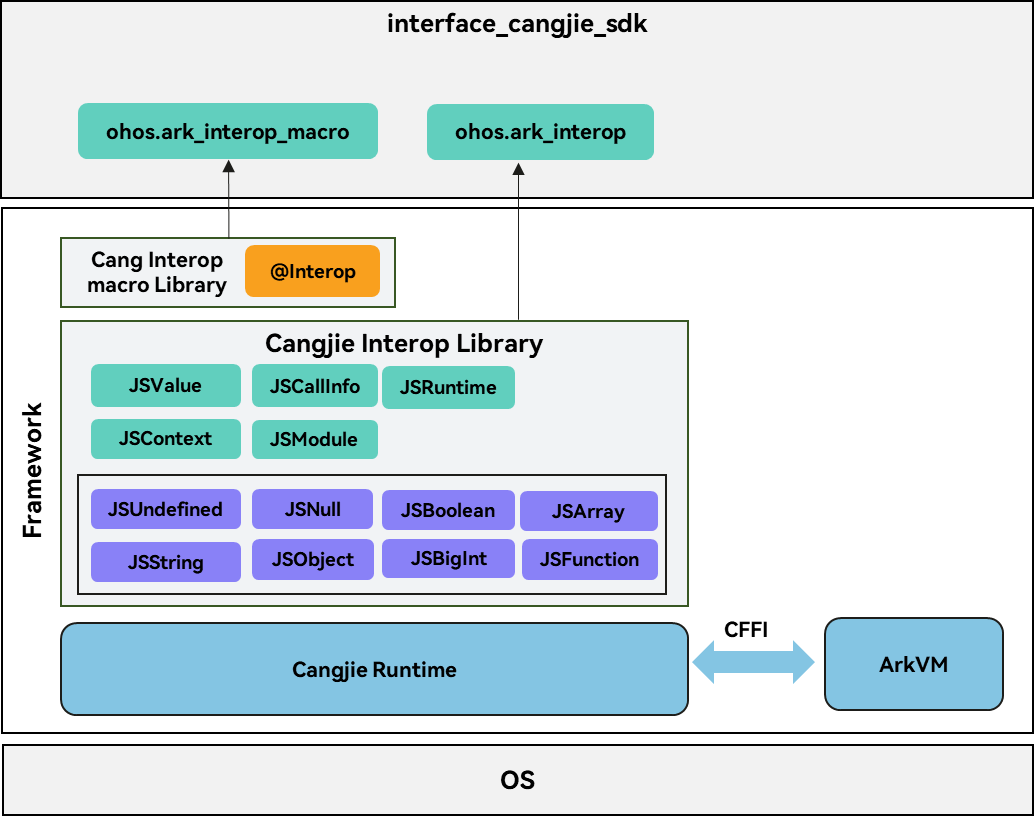
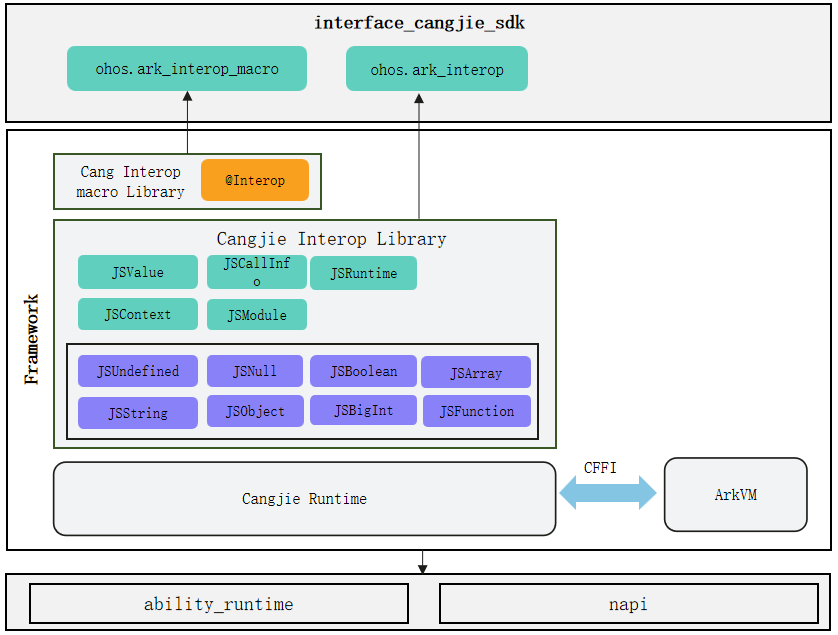
fixed doc

diff --git a/README_zh.md b/README_zh.md
@@ -2,7 +2,7 @@
 
 ## 简介
 
-仓颉ArkTS互操作库API，用于提供仓颉与ArkTS跨语言互操作能力，包含仓颉互操作库提供的公共接口、互操作宏接口和依赖的json和CFFI接口，期望给开发者提供兼顾开发效率和运行效率的跨语言互操作解决方案，提供简洁的互操作开发范式，降低跨语言互通开销。
+仓颉ArkTS互操作库API，用于提供仓颉与ArkTS跨语言互操作能力，包含仓颉互操作库提供的公共接口、互操作宏接口和依赖的json和C语言互操作(CFFI)接口，期望给开发者提供兼顾开发效率和运行效率的跨语言互操作解决方案，提供简洁的互操作开发范式，降低跨语言互通开销。
 
 其主要结构如下图所示：
 
@@ -26,23 +26,34 @@
 本库还提供以下的关键数据结构：
 
 - JSValue: 用于表示来自ArkTS中的对象（如数字、字符串、对象、函数），是仓颉与ArkTS类型转换的桥梁。
+- JSModule: JSModule的目标是提供符号导出能力（导出到ArkTS）。配合自定义静态初始化函数，在动态库被加载时把导出目标注册到全局表，并由ArkTS引擎来执行导出。
+- JSRuntime: 仓颉创建的 ArkTS 运行时。
 - JSContext: 用于表示与ArkTS互操作的上下文，提供模块加载、JSValue创建等能力。
 - JSCallInfo: 用于表示当发生来自于ArkTS互操作调用时 调用的参数集合。
 
-最后本互操作库通过CFFI调用ArkTS虚拟机提供的接口完成互操作功能。
+最后本互操作库通过C语言互操作调用ArkTS虚拟机提供的接口完成互操作功能。
 
 ## 目录
 
 ```text
 arkcompiler/cangjie_ark_interop
-├── ohos                 # 仓颉互操作API的公共仓代码
-├── doc                  # 仓颉文档，包括API参考、应用开发指南、仓颉编程语言用户手册
-    ├── API_Reference    # 仓颉API参考
-    └── Dev_Guide        # 仓颉开发指南
-    └── release-notes    # 仓颉发布说明
-    └── User_Manual      # 仓颉用户手册
-├── figures              # 本README需要使用的图片
-├── test                 # 仓颉互操作测试用例
+├── ohos                   # 仓颉互操作API的公共仓代码
+    ├── ark_interop        # 仓颉互操作库
+    └── ark_interop_helper # 仓颉互操作库工具类
+    └── ark_interop_macro  # 仓颉互操作库宏
+    └── business_exception # 仓颉互操作异常
+    └── callback_invoke    # 仓颉互操作回调工具类
+    └── encoding           # 仓颉json库
+    └── ffi                # 仓颉C语言互操作库
+    └── labels             # 仓颉互操作库api level标签
+    └── utf16string        # 仓颉互操作库提供的utf16字符串处理类
+├── doc                    # 仓颉文档，包括API参考、应用开发指南、仓颉编程语言用户手册
+    ├── API_Reference      # 仓颉API参考
+    └── Dev_Guide          # 仓颉开发指南
+    └── release-notes      # 仓颉发布说明
+    └── User_Manual        # 仓颉用户手册
+├── figures                # 本README需要使用的图片
+├── test                   # 仓颉互操作测试用例
 ```
 
 ## 约束
@@ -51,15 +62,80 @@ arkcompiler/cangjie_ark_interop
 
 ## 使用场景
 
-包含仓颉-ArkTS互操作库，用于仓颉-ArkTS互操作。json库/APILevel/CFFI库为基础功能库，提供给仓颉API/仓颉UI等子系统等公共能力。
+包含仓颉-ArkTS互操作库，用于仓颉-ArkTS互操作。json库/APILevel/C语言互操作库为基础功能库，提供给仓颉API/仓颉UI等子系统等公共能力。
 
 在OpenHarmony应用开发中，存在使用仓颉与ArkTS混合开发的诉求，例如以下场景：
 
 - 场景一：在使用ArkTS开发时，通过跨语言互操作调用仓颉开发的代码模块，发挥仓颉高性能高并发优势，提升应用性能体验；
 
+使用示例如下，更详细的例子请参考：[在 ArkTS 中加载仓颉模块](https://gitcode.com/openharmony-sig/arkcompiler_cangjie_ark_interop/blob/master/doc/User_Manual/source_zh_cn/FFI/cangjie-arkts/arkts_import_cangjie.md)
+
+```swift
+// 导入互操作库
+import ohos.ark_interop.*
+
+func addNumber(context: JSContext, callInfo: JSCallInfo): JSValue {
+// 从JSCallInfo获取参数列表
+let arg0: JSValue = callInfo[0]
+let arg1: JSValue = callInfo[1]
+// 把JSValue转换为仓颉类型
+let a: Float64 = arg0.toNumber()
+let b: Float64 = arg1.toNumber()
+// 实际仓颉函数行为
+let value = a + b
+// 把结果转换为JSValue
+let result: JSValue = context.number(value).toJSValue()
+// 返回 JSValue
+return result
+}
+
+// 必须注册该函数到JSModule中
+let EXPORT_MODULE = JSModule.registerModule {
+runtime, exports =>
+exports["addNumber"] = runtime.function(addNumber).toJSValue()
+}
+```
+
+然后在ArkTS侧就可以加载仓颉模块，并调用该接口。
+
+```swift
+// 导入仓颉动态库，该动态库名称为仓颉包名的名称，该名称需要和互操作接口所在的包名一致
+import { addNumber } from "libohos_app_cangjie_entry.so";
+
+// 调用仓颉接口
+let result = addNumber(1, 2);
+```
+
 - 场景二：在使用仓颉开发时，通过跨语言互操作调用ArkTS库，复用ArkTS丰富的库生态；
 
+使用示例如下，更详细的例子请参考：[仓颉应用中使用 ArkTS 模块](https://gitcode.com/openharmony-sig/arkcompiler_cangjie_ark_interop/blob/master/doc/User_Manual/source_zh_cn/FFI/cangjie-arkts/using_arkts_module.md)
+
+```swift
+func callInterop(x: Float64, y: Float64): Float64 {
+    // 获取互操作上下文
+    let context: JSContext = JSRuntime().mainContext
+    // 加载目标ArkTS模块
+    let module: JSObject = context.loadArkTSModule(JSModules.Entry).asObject(context)
+
+    // 获取ArkTS模块导出函数
+    let addNumber = module["addNumber"].asFunction(context)
+    // 调用ArkTS函数
+    let result = addNumber.call([context.number(x).toJSValue(), context.number(y).toJSValue()])
+
+    return result.toFloat64()
+}
+```
+
 同时针对互操作带来的开发复杂度，仓颉提供声明式互操作宏ark_interop_macro，使开发者可以使用宏“@Interop[ArkTS]”标注仓颉代码中需要导出给ArkTS使用的函数或类型，在编译阶段自动生成互操作“胶水层”代码及ArkTS接口声明，减少开发者手写互操作代码的复杂度。
+
+上述场景一可以借助互操作宏简化开发，比如以上案例中仓颉侧代码可以简化成如下代码，更详细的例子请参考：[仓颉- ArkTS 声明式互操作宏](https://gitcode.com/openharmony-sig/arkcompiler_cangjie_ark_interop/blob/master/doc/User_Manual/source_zh_cn/FFI/cangjie-arkts/interoperability_macro.md)：
+
+```swift
+@Interop[ArkTS]
+public func addNumber(a: Float64, b: Float64): Float64 {
+a + b
+}
+```
 
 ![仓颉互操作流程图](./figures/api.png)
 
@@ -81,3 +157,5 @@ arkcompiler/cangjie_ark_interop
 ## 相关仓
 
 [arkui_napi](https://gitee.com/openharmony/arkui_napi)
+
+[ability_runtime](https://gitee.com/openharmony/ability_ability_runtime)

diff --git a/README.md b/README.md
@@ -34,14 +34,23 @@ Finally, this interop library completes the interoperability function by calling
 
 ```text
 arkcompiler/cangjie_ark_interop
-├── ohos                 # Public repository code for Cangjie Interop API
-├── doc                  # Cangjie documentation including API reference, development guide and user manual
-    ├── API_Reference    # Cangjie api reference
-    └── Dev_Guide        # Cangjie developer guide
-    └── release-notes    # Cangjie release notes
-    └── User_Manual      # Cangjie user manual
-├── figures              # Images used in the README
-├── test                 # Cangjie interop testcases
+├── ohos                   # Public repository code for Cangjie Interop API
+    ├── ark_interop        # Cangjie Interop API
+    └── ark_interop_helper # Cangjie Interop library utility class
+    └── ark_interop_macro  # Cangjie Interop macro
+    └── business_exception # Cangjie Interop exception
+    └── callback_invoke    # Cagnejie Interop callback invoke
+    └── encoding           # Cangjie json encoding
+    └── ffi                # Cangjie C FFI Library
+    └── labels             # Cangjie Interop Labels
+    └── utf16string        # Cangjie UTF16 String
+├── doc                    # Cangjie documentation including API reference, development guide and user manual
+    ├── API_Reference      # Cangjie api reference
+    └── Dev_Guide          # Cangjie developer guide
+    └── release-notes      # Cangjie release notes
+    └── User_Manual        # Cangjie user manual
+├── figures                # Images used in the README
+├── test                   # Cangjie interop testcases
 ```
 
 ## Constraints
@@ -59,9 +68,64 @@ For the demands of scenario one, an interoperability library can be used to impl
 In OpenHarmony application development, there is a demand for hybrid development of Cangjie and ArkTS, such as the following scenarios:
 
 - Scenario one: When using ArkTS for development, the code modules developed by Cangjie are called through cross-language interop to give full play to Cangjie's high performance and high concurrency advantages and improve the application performance experience.
+
+An example of usage is as follows; for more detailed examples, please refer to[Loading Cangjie Modules in ArkTS](https://gitcode.com/openharmony-sig/arkcompiler_cangjie_ark_interop/blob/master/doc/User_Manual/source_en/FFI/cangjie-arkts/arkts_import_cangjie.md)
+
+```swift
+
+import ohos.ark_interop.*
+
+func addNumber(context: JSContext, callInfo: JSCallInfo): JSValue {
+
+let arg0: JSValue = callInfo[0]
+let arg1: JSValue = callInfo[1]
+let a: Float64 = arg0.toNumber()
+let b: Float64 = arg1.toNumber()
+let value = a + b
+let result: JSValue = context.number(value).toJSValue()
+return result
+}
+
+let EXPORT_MODULE = JSModule.registerModule {
+runtime, exports =>
+exports["addNumber"] = runtime.function(addNumber).toJSValue()
+}
+```
+
+Then the Cangjie module can be loaded on the ArkTS side and the interface can be called.
+
+```swift
+import { addNumber } from "libohos_app_cangjie_entry.so";
+
+let result = addNumber(1, 2);
+```
+
 - Scenario two: When using Cangjie for development, call the ArkTS library through cross-language interoperability to reuse the rich library ecosystem of ArkTS.
 
+An example of usage is as follows; for more detailed examples, please refer to[Using ArkTS Modules in Cangjie Applications](https://gitcode.com/openharmony-sig/arkcompiler_cangjie_ark_interop/blob/master/doc/User_Manual/source_en/FFI/cangjie-arkts/using_arkts_module.md)
+
+```swift
+func callInterop(x: Float64, y: Float64): Float64 {
+    let context: JSContext = JSRuntime().mainContext
+    let module: JSObject = context.loadArkTSModule(JSModules.Entry).asObject(context)
+
+    let addNumber = module["addNumber"].asFunction(context)
+    let result = addNumber.call([context.number(x).toJSValue(), context.number(y).toJSValue()])
+
+    return result.toFloat64()
+}
+```
+
 At the same time, in response to the development complexity brought about by interop, Cangjie provides a declarative interoperability macro ark_interop_macro, which allows developers to use the macro "@Interop[ArkTS]" to mark the functions or types that need to be exported to ArkTS in the Cangjie code, and automatically generate the interoperability "glue layer" code and ArkTS interface declarations during the compilation stage, reducing the complexity of the developer's handwritten interoperability code.
+
+The above scenario one can simplify development using interoperation macros, for example, the Cangjie side code in the above case can be simplified to example as follows,for more detailed examples, please refer to[Cangjie-ArkTS Declarative Interop Macros](https://gitcode.com/openharmony-sig/arkcompiler_cangjie_ark_interop/blob/master/doc/User_Manual/source_en/FFI/cangjie-arkts/interoperability_macro.md)
+
+```swift
+@Interop[ArkTS]
+public func addNumber(a: Float64, b: Float64): Float64 {
+a + b
+}
+```
 
 ![Cangjie interoperability flow chart](./figures/api_eng.png)
 
@@ -83,3 +147,5 @@ Developers are welcome to contribute code, documentation, etc. For specific cont
 ## Related Repositories
 
 [arkui_napi](https://gitee.com/openharmony/arkui_napi)
+
+[ability_runtime](https://gitee.com/openharmony/ability_ability_runtime)
